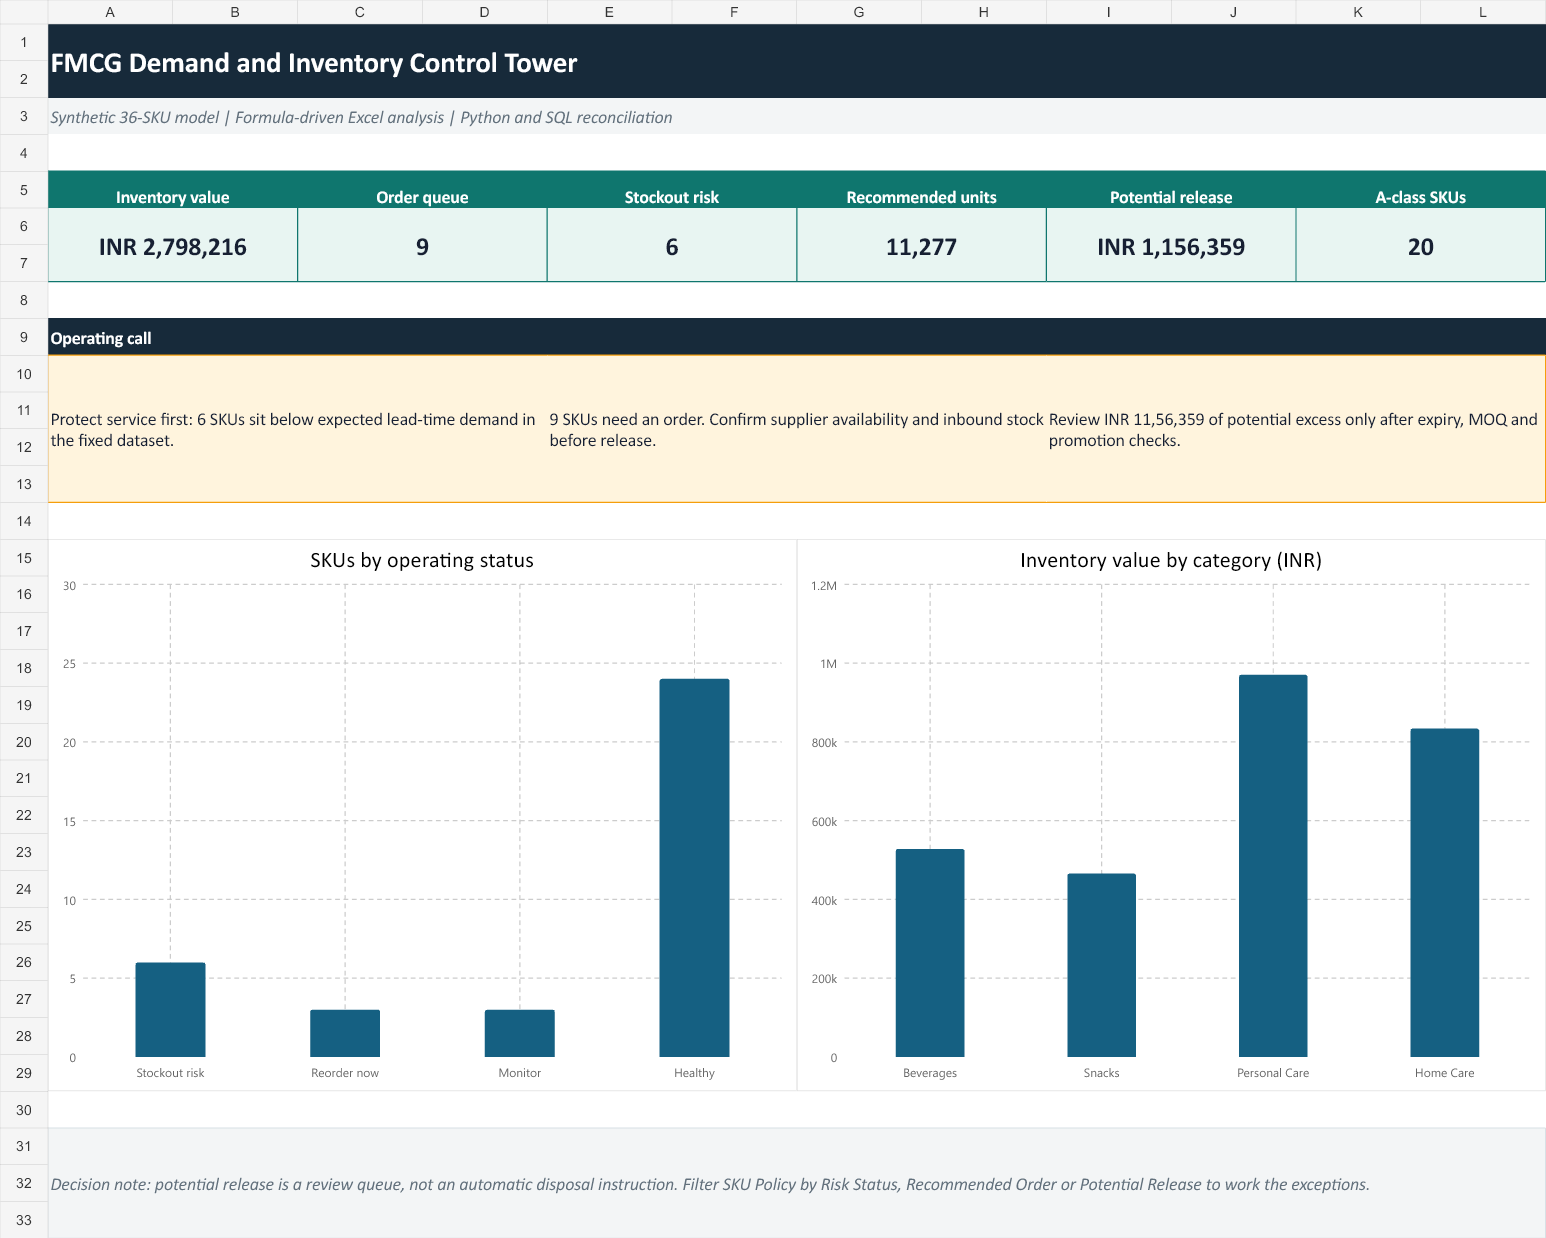
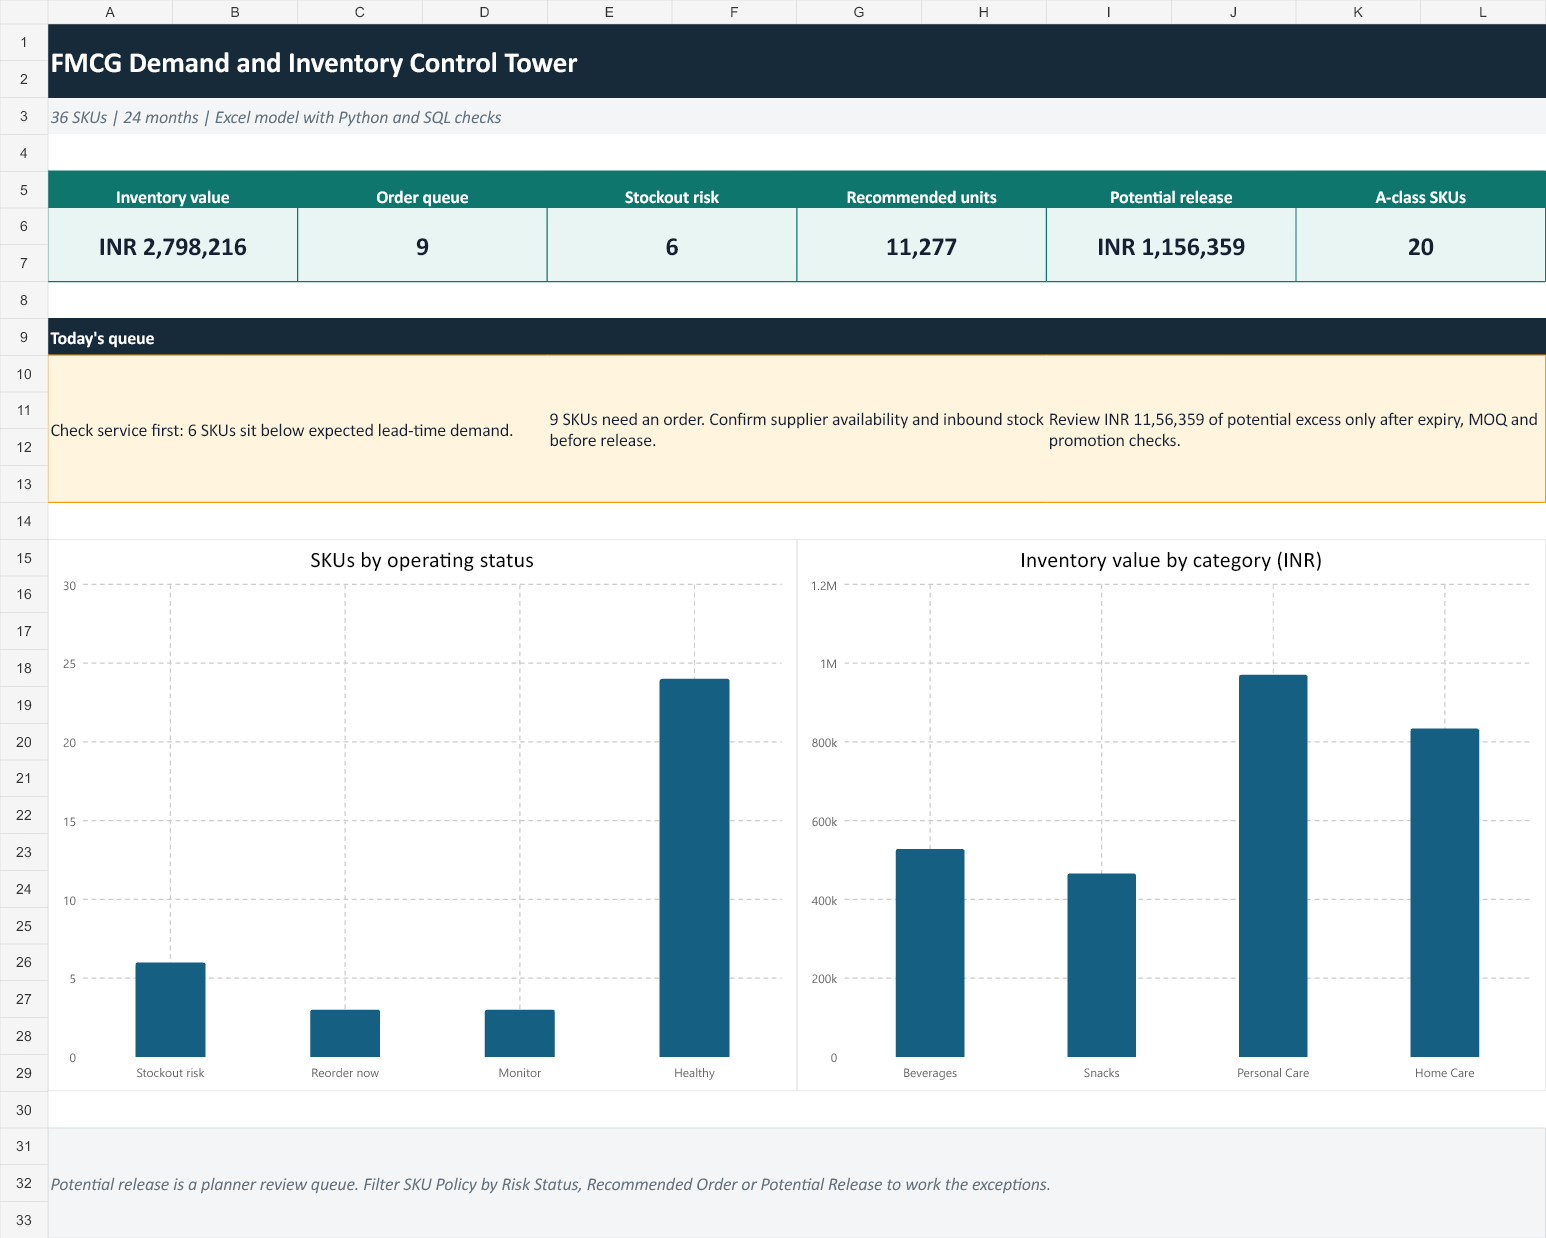
Tighten project copy and artifact labels

diff --git a/README.md b/README.md
@@ -1,52 +1,42 @@
-# FMCG demand and inventory control tower
+# FMCG inventory control tower
 
-I built this case to answer an operations question that a dashboard alone cannot solve: which SKUs need attention today, how much should be ordered, and where is working capital sitting without protecting service?
+An editable 36-SKU model for two daily questions: what needs to be ordered, and which excess-stock flags deserve a planner's review?
 
-> **Data note:** the company, SKUs and operating history are synthetic. The inventory logic is real and fully inspectable. This repository does not represent a client or employer dataset.
-
-## The short version
-
-**Problem:** one replenishment rule treats a steady, high-value SKU the same as a low-value, volatile one.
-
-**What I built:** a 24-month, 36-SKU control tower using Excel, Python and SQL. It combines ABC value segmentation with XYZ demand variability, then calculates safety stock, reorder point, EOQ, risk status, recommended order quantity and potential working-capital release.
-
-**Start here:** download the [Excel control tower](excel/fmcg-inventory-control-tower.xlsx) or open the [case study](CASE_STUDY.md).
+> Data note: the company, products and 24-month demand history are generated for this project.
 
 ![Inventory control tower](visuals/control-tower.png)
 
+## Current readout
+
+- Inventory value: **INR 2.80 million**
+- Order queue: **9 SKUs**
+- Stockout risk: **6 SKUs**
+- Recommended order quantity: **11,277 units**
+- Potential excess-stock review: **INR 1.16 million**
+
+The six stockout-risk items come first. The excess figure is a review queue; expiry, promotions, supplier reliability and minimum order quantities still need to be checked.
+
+## Workbook logic
+
+ABC ranks annual consumption value. XYZ groups demand by coefficient of variation. The workbook then calculates safety stock, reorder point, EOQ, order quantity and potential excess using visible formulas and editable parameters.
+
 ## Files
 
-| Area | What is included |
-|---|---|
-| Excel | Formula-driven control tower, SKU policy table, ABC-XYZ matrix, demand history, parameters and data notes |
-| Python | Deterministic synthetic data generation plus an independent policy calculation |
-| SQL | Reorder queue, stockout exposure, working-capital release and service-risk queries |
-| Data | SKU master and 24 months of monthly demand |
-| QA | Python policy snapshot and compact summary for reconciliation |
+- [Excel control tower](excel/fmcg-inventory-control-tower.xlsx)
+- [Case notes](CASE_STUDY.md)
+- [SQL queues](sql/inventory_decisions.sql)
+- [Data dictionary](DATA_DICTIONARY.md)
+- [Python calculation](scripts/generate_and_analyze.py)
 
-## Operating logic
-
-- **ABC** ranks SKUs by annual consumption value. A covers the first 80%, B the next 15%, and C the remainder.
-- **XYZ** separates stable, moderate and volatile demand using coefficient of variation.
-- **Safety stock** uses demand variability, lead time and a class-based service factor.
-- **Reorder point** equals lead-time demand plus safety stock.
-- **Recommended order** is triggered only when inventory position reaches the reorder point.
-- **Potential release** flags stock beyond one EOQ cycle plus safety stock. It is a review queue, not an instruction to liquidate inventory.
-
-## Reproduce it
+## Rebuild
 
 ```bash
 python scripts/generate_and_analyze.py
+node scripts/build_workbook.mjs
 ```
 
-The workbook remains editable. Change service factors, ABC thresholds, holding rate, lead time, current stock or order cost and the operating outputs update through formulas.
+## Method references
 
-## Method sources
-
-- Microsoft, ABC analysis report concept: https://learn.microsoft.com/en-us/dynamics365/business-central/reports/report-723
-- Open-access safety-stock case comparing service-level and ABC-XYZ approaches: https://www.mdpi.com/2079-8954/12/7/260
-- Oracle inventory guide for reorder-point planning: https://docs.oracle.com/cd/B15436_02/current/acrobat/115invug.pdf
-
-## Limits
-
-The model assumes monthly demand variability can approximate lead-time risk. It does not model supplier reliability, minimum order quantities, shelf life, promotions, capacity, substitution or multi-echelon inventory. Z-class demand may need an intermittent-demand method before production use.
+- Microsoft ABC analysis report: https://learn.microsoft.com/en-us/dynamics365/business-central/reports/report-723
+- Safety-stock and ABC-XYZ comparison: https://www.mdpi.com/2079-8954/12/7/260
+- Oracle reorder-point planning guide: https://docs.oracle.com/cd/B15436_02/current/acrobat/115invug.pdf

diff --git a/CASE_STUDY.md b/CASE_STUDY.md
@@ -1,44 +1,21 @@
-# Case study: one policy should not manage every SKU
+# Inventory policy case notes
 
-## The operating problem
+## Operating problem
 
-The synthetic distributor carries 36 FMCG SKUs across beverages, snacks, personal care and home care. Demand ranges from stable high-value lines to volatile long-tail products. A single safety-stock rule either under-protects important items or ties up cash in slower stock.
+The model covers 36 SKUs with different value and demand patterns. A single replenishment rule would under-protect some fast, valuable lines and hold too much stock in slower ones.
 
-## What the model found
+## Readout
 
-- Current inventory value: **INR 2.80 million**
-- SKUs requiring an order: **9**
-- SKUs already below expected lead-time demand: **6**
-- Recommended order quantity across the queue: **11,277 units**
-- Potential working-capital review: **INR 1.16 million**
+Current inventory is **INR 2.80 million**. Nine SKUs enter the order queue, including six already below expected lead-time demand. The suggested orders total **11,277 units**. Another **INR 1.16 million** is flagged for an excess-stock review.
 
-These are outputs from the fixed synthetic dataset, not a promise that the full value can be released. Excess stock may be needed for promotions, minimum order quantities, supplier disruption or shelf availability.
+## Planner sequence
 
-## My recommendation
+1. Check supplier availability and inbound stock for the six stockout-risk items.
+2. Give AX items the tightest forecast and service review. Use exception reviews for AY, AZ and variable B items.
+3. Review every excess flag against expiry, promotions, minimum order quantities, display stock and supplier reliability.
 
-### 1. Protect service before releasing cash
+Python calculates the policy independently. Excel exposes the formulas and parameters. SQL turns the same rules into recurring order and excess-review queues.
 
-The six stockout-risk SKUs should be checked first. The operating conversation is supplier availability, current inbound orders and the next demand window. A working-capital programme that ignores these items can create the wrong behaviour.
+## Before live use
 
-### 2. Use the ABC-XYZ cell to set review cadence
-
-- **AX:** tight forecast review, high service factor, frequent replenishment.
-- **AY/AZ:** high-value items with more uncertainty, so planner judgement matters.
-- **BX/BY:** standard policy with exception review.
-- **C cells:** lighter-touch management unless a commercial or service constraint overrides value.
-
-### 3. Treat potential release as a queue
-
-The model flags current stock above safety stock plus one EOQ cycle. A planner should then check expiry, promotion, minimum order quantity, display stock and supplier reliability. Only the remainder is a credible release.
-
-## Why I used two methods
-
-Python creates and independently analyzes the fixed dataset. Excel recalculates the policy using visible formulas and editable parameters. SQL shows how the same logic can become a recurring reorder and review queue in a warehouse. The three paths make the decisions easier to inspect.
-
-## Limits before production use
-
-- Use daily or weekly demand when lead times are short.
-- Add lead-time variability when supplier delivery is unstable.
-- Use intermittent-demand methods for Z items where the normal approximation is weak.
-- Add shelf life, promotions, MOQ, case packs and service penalties.
-- Back-test the policy against actual fill rate and holding cost before rollout.
+The next version would use weekly demand, supplier lead-time history, shelf life, case packs, promotion calendars and service penalties. Z items may need an intermittent-demand method. The policy should be back-tested against fill rate and holding cost before rollout.

diff --git a/DATA_DICTIONARY.md b/DATA_DICTIONARY.md
@@ -4,16 +4,16 @@
 
 | Field | Meaning |
 |---|---|
-| `sku_id` | Synthetic SKU identifier |
+| `sku_id` | SKU identifier |
 | `product_name` | Invented FMCG product description |
 | `category` | Beverages, Snacks, Personal Care or Home Care |
-| `unit_cost_inr` | Synthetic unit acquisition cost |
-| `unit_price_inr` | Synthetic selling price |
+| `unit_cost_inr` | Unit acquisition cost |
+| `unit_price_inr` | Selling price |
 | `lead_time_days` | Assumed replenishment lead time |
 | `order_cost_inr` | Assumed fixed cost per replenishment order |
 | `holding_rate` | Annual carrying-cost percentage |
-| `current_stock_units` | Synthetic on-hand stock at the snapshot date |
-| `on_order_units` | Synthetic confirmed inbound quantity |
+| `current_stock_units` | On-hand stock at the snapshot date |
+| `on_order_units` | Confirmed inbound quantity |
 
 ## `data/monthly_demand.csv`
 
@@ -21,7 +21,7 @@
 |---|---|
 | `month` | First day of the demand month |
 | `sku_id` | Joins to the SKU master |
-| `demand_units` | Synthetic requested units before stock constraints |
+| `demand_units` | Requested units before stock constraints |
 
 ## Important derived fields
 
